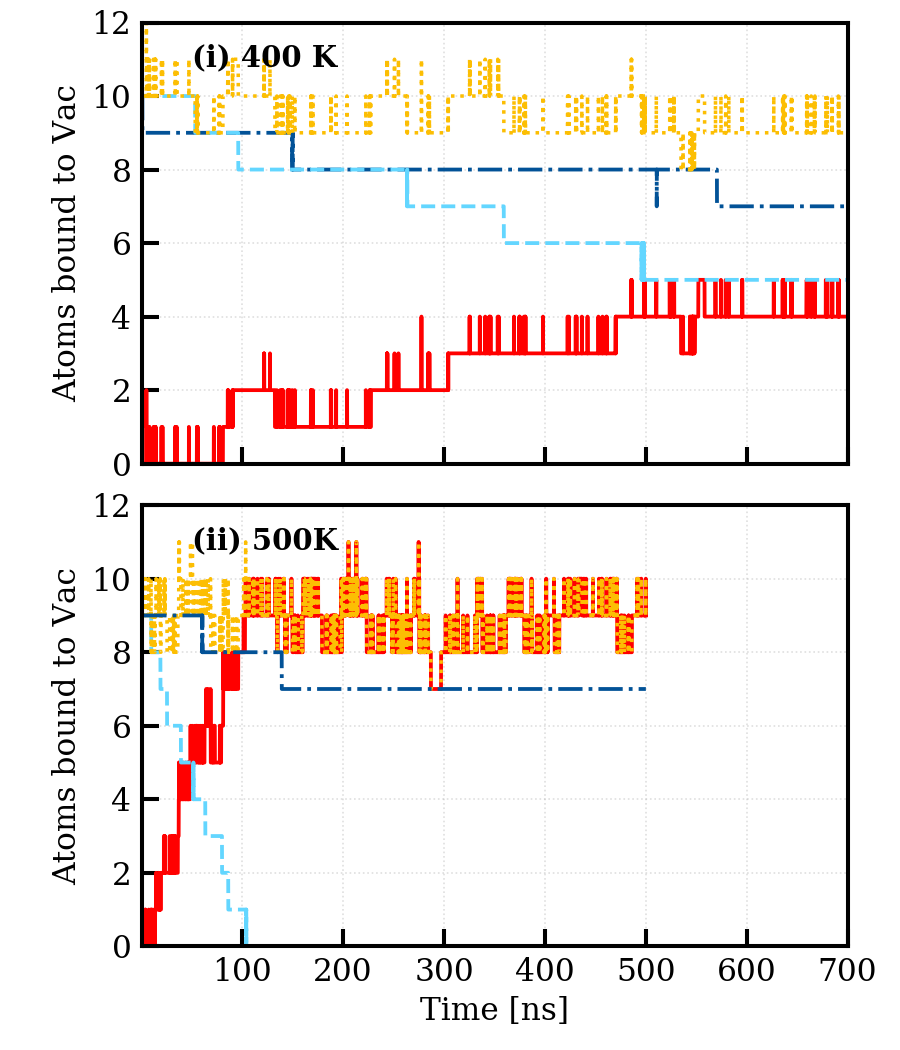
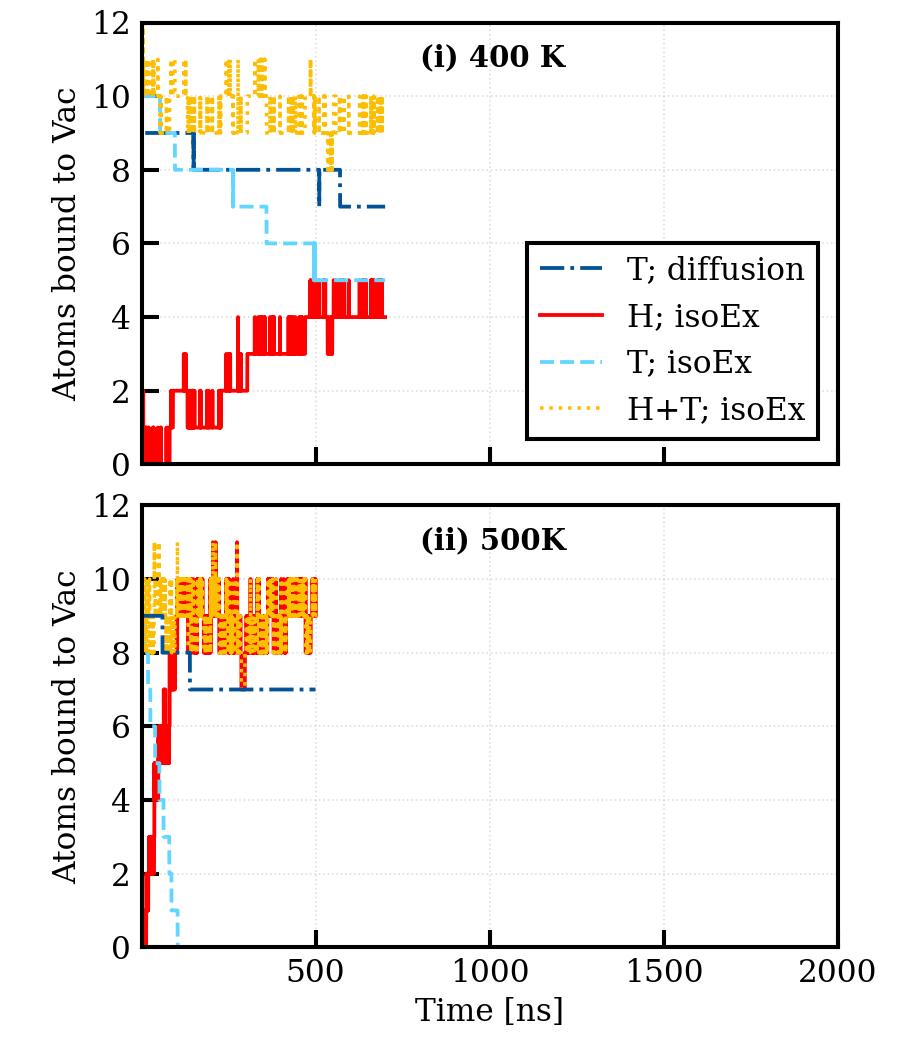
general fixes

diff --git a/3_Methods.tex b/3_Methods.tex
@@ -25,7 +25,7 @@ In order to avoid catastrophic errors in the conservation of energy, the time st
 In its purest form, MD requires us to perform $O(N^2)$ force evaluations, with $N$ being the number simulated of particles. 
 In a typical simulation, however, the particles only interact with a limited number of neighbours, and most long-range interactions can be safely disregarded. 
 A common way of doing this is by declaring a cutoff radius for the force calculations, with only particles within this radius from particle $i$ taken into account when evaluating $\mathbf{F}_i(\mathbf{r}_i,t)$. 
-The use of a force cutoff theoretically reduces the scaling of the algorithm down to $O(N)$. \cite{verlet1967computer}
+The use of a force cutoff theoretically reduces the scaling of the algorithm down to $O(N)$  \cite{verlet1967computer}.
 
 % [Periodic boundaries] 
 Despite the use of a force cutoff, most real-world materials are still far too large to be simulated accurately.
@@ -58,11 +58,11 @@ A common and relatively simple algorithm for this is the so called the \textit{B
 \frac{dT}{dt} = \frac{T_0-T}{\tau}
 \end{align}
 where $T_0$ is the target temperature and $\tau$ a time constant. 
-Despite its high efficiency, the Berendsen thermostat is not producing a fully correct canonical ensemble and is prone to causing various unphysical artefacts. \cite{berendsen1984molecular}
+Despite its high efficiency, the Berendsen thermostat is not producing a fully correct canonical ensemble and is prone to causing various unphysical artefacts \cite{berendsen1984molecular}.
 
 The \textit{Nos\'{e}-Hoover thermostat}, on the other hand, accurately samples the canonical ensamble. 
 Being a so-called \textit{extended system method}, the Nos\'{e}-Hoover thermostat makes use of a virtual particle reservoir, effectively acting as a heat bath. 
-Since this requires equations of motions to be evaluated both for the actual particles and the virtual reservoir, the gained physical accuracy comes at a higher computational cost. \cite{nose1984unified}
+Since this requires equations of motions to be evaluated both for the actual particles and the virtual reservoir, the gained physical accuracy comes at a higher computational cost \cite{nose1984unified}.
 
 % --------------- MD schematic ------------------------------------------------------------------------------------
 \begin{figure}
@@ -137,13 +137,13 @@ The atomic structure of metals allows them to be described particularly well usi
 \begin{align}
 V_{tot} = \sum_i^N F_i\, \bigg( \sum_j \rho\, (\mathbf{r}_{ij}) \bigg) + \frac{1}{2} \sum^N_{ij} V_2 (\mathbf{r}_{ij})
 \end{align}
-where  $F_i$ is a function of the summed electron density $\rho (\mathbf{r}_{ij})$ and $\mathbf{r}_{ij}$ denotes the distance $| \mathbf{r}_i - \mathbf{r}_j |$ between the $i$th and $j$th atoms. \cite{EAMmodel,dudarevEAMpotential}. 
+where  $F_i$ is a function of the summed electron density $\rho (\mathbf{r}_{ij})$ and $\mathbf{r}_{ij}$ denotes the distance $| \mathbf{r}_i - \mathbf{r}_j |$ between the $i$th and $j$th atoms \cite{EAMmodel,dudarevEAMpotential}. 
 
 For covalently bonded materials, it is often more accurate to use a \textit{Bond Order Potential} (BOP), generally presented as
 \begin{align}
 V_{ij}(r_{ij}) =bV_{ijk}V_{\rm attractive}(r_{ij}) V_ {\rm repulsive}
 \end{align}
-Examples of BOPs are potentials of Tersoff, Brenner and Finnis-Sinclair type. \cite{tersoff1988new, brenner1990empirical, finnis1984simple} Both BOP and EAM potentials have the functional shape of a typical pair-potential, but act as many-body potentials due to many-body interactions embedded into their pair-terms.
+Examples of BOPs are potentials of Tersoff, Brenner and Finnis-Sinclair type \cite{tersoff1988new, brenner1990empirical, finnis1984simple}. Both BOP and EAM potentials have the functional shape of a typical pair-potential, but act as many-body potentials due to many-body interactions embedded into their pair-terms.
 
 \section{Parallel Algorithms}
 Doubling the side length of a cubical atomic system increases the number of atoms by a factor of eight. 
@@ -153,14 +153,14 @@ Computationally, however, it is indeed expensive due to the increased number of 
 
 Interestingly, the nature of MD simulations makes them inherently parallel, allowing the forces for all atoms to be calculated simultaneously. 
 This fact can be exploited by dividing the computational load across multiple processing units. 
-Parallellisation on $P$ processors can be performed using three principal algorithms; \textit{atom-}, \textit{spatial-} and \textit{force-decompositon}. 
-\cite{fincham1987parallel}
+Parallellisation on $P$ processors can be performed using three principal algorithms; \textit{atom-}, \textit{spatial-} and \textit{force-decomposition} 
+\cite{fincham1987parallel}.
 
 The atom-decompositon algorithm includes appointing $N/P$ atoms to each processor and requires \textit{all-to-all} communication of forces between processors and therefore it scales as $O(N)$, independently of $P$. 
 The force-decomposition algorithm, on the other hand, divides the cell into three-dimensional boxes, with atoms being re-appointed to the corresponding processor each time they enter a new box. 
 This method limits the communication required to only neighbouring processors, giving a theoretical scaling of $O(N/P)$ for largely parallel simulations.
 The spatial-decomposition algorithm, finally, involves appointing force calculation loops to separate processors.
-This method is fairly non-trivial to grasp and achieves at best a scaling of $O(N/\sqrt{P})$, still lagging behind the spatial-decomposition algorithm in performance. \cite{fincham1987parallel,lammpsMD}
+This method is fairly non-trivial to grasp and achieves at best a scaling of $O(N/\sqrt{P})$, still lagging behind the spatial-decomposition algorithm in performance \cite{fincham1987parallel,lammpsMD}.
 
 % ---------------------------------------------------------------------------------------------------
 % \section{Analysis of the Results}

diff --git a/2_Theory.tex b/2_Theory.tex
@@ -71,7 +71,7 @@ The armour material of choice for the ITER divertor is tungsten (W) \cite{PITTS2
 The metal, named after the Swedish word for "heavy stone", is recognized for having the highest melting point of all metals (3695 K) and a hardness superior to that of most steels. 
 It also has a thermal conductivity of 173 W/(m·K), equaling around twice that of iron and half that of copper. 
 In its structurally most stable form, W has a body-centered-cubic (BCC) crystal structure, with a lattice constant of 3.165 \AA.
-Due to its small atoms size, hydrogen has been long known to be soluble to at least some degree in most transition metals, including tungsten \cite{smith1934occlusion, frauenfelder1969solution}.
+Due to its small atomic size, hydrogen is soluble to at least some degree in most transition metals, including tungsten \cite{smith1934occlusion, frauenfelder1969solution}.
 The equilibrium position for hydrogen in a perfect W lattice is at the tetrahedral interstitial position (TIS), shown as black dots in Fig. \ref{Fig:bcc}. 
 
 At temperatures $T > 0$ K, any real crystalline materials will contain some amount of crystallographic defects, the most common which are visualized in Fig. \ref{Fig:defect_types}. 
@@ -101,7 +101,7 @@ E.g. in the case of a vacancy, the empty lattice site leaves neighbouring W atom
 The isotopes of a chemical element are essentially variations of the same element, differing in the number of neutrons and thus also atomic mass. 
 Since all isotopes of a specific element share the same number of protons and electrons, they can be considered chemically indistinguishable. 
 The difference in atomic mass can, nonetheless, present itself as a change in the reaction rates of chemical and thermodynamic processes when an atom is replaced by its isotope. 
-Known as the \textit{kinetic isotope effect}, this involves lighter isotopes generally reacting faster than their heavier counterparts. \cite{atkins2006atkins}
+Known as the \textit{kinetic isotope effect}, this involves lighter isotopes generally reacting faster than their heavier counterparts \cite{atkins2006atkins}.
 
 In the case of hydrogen, there are three naturally occurring isotopes, protium (H), deuterium (D) and tritium (T). 
 In contrast to the vast majority of elements, the relative differences in mass between these three isotopes are notably extreme; D ($m_{\text{D}}=2.014102$ u) and T ($m_{\text{T}}=3.016049$ u) have masses of just over two and three times that of H ($m_{\text{H}}=1.007825$ u). 
@@ -109,7 +109,7 @@ These mass differences result in, e.g. the isotopes having noticeably different 
 
 Out of these three isotopes, tritium is the by far scarcest. 
 Having a half-life of only 12.3 years, it is formed only in miniscule amounts in the atmosphere through interactions with cosmic rays.
-In fusion reactors, where tritium will be present in relative abundance, the trapping of this radioactive substance into wall materials can over time become a safety issue; although tritium is a low-energy beta emitter and thus not externally harmful to humans, it is easily inhaled, ingested or absorbed through the skin, potentialy causing radiation damage to internal organs and tissues. \cite{tritiumHealth}
+In fusion reactors, where tritium will be present in relative abundance, the trapping of this radioactive substance into wall materials can over time become a safety issue; although tritium is a low-energy beta emitter and thus not externally harmful to humans, it is easily inhaled, ingested or absorbed through the skin, potentialy causing radiation damage to internal organs and tissues \cite{tritiumHealth}.
 In addition to the safety concern associated with handling and maintaining tritium infused components, there is also an obvious fuel economical incentive of retrieving the embedded tritium.
 
 The proposed methods of detrapping and extracting hydrogen isotopes from materials typically focus on annealing, i.e. heating and slowly cooling a material, to facilitate the detrapping and diffusion of hydrogen atoms. 
@@ -132,7 +132,7 @@ When a hydrogen atom gets detrapped and diffuses far enough from its original po
 As the defect empties this way, it grows increasingly difficult and therefore unlikely for the remaining hydrogen atoms to overcome the $E_{\text{bind}}$ barrier.
 In other words, the removal of T from a material slows over time, unless more heat is gradually applied.
 
-Annealing performed under a H$_2$ atmosphere or alternatively under a bombardment of H plasma has, however, been experimentally shown to reduce annealing time or alternatively enable the annealing to be performed at lower temperatures.  \cite{alimov2011hydrogen, roth2013hydrogen, barton2014deuterium, ahlgren2019hydrogen}
+Annealing performed under a H$_2$ atmosphere or alternatively under a bombardment of H plasma has, however, been experimentally shown to reduce annealing time or alternatively enable the annealing to be performed at lower temperatures \cite{alimov2011hydrogen, roth2013hydrogen, barton2014deuterium, ahlgren2019hydrogen}.
 The mechanism at play here supposedly works by keeping the number of hydrogen atoms bound to a defect constant.  
 As a tritium atom now leaves the defect, its place is soon taken by a close-by protium atom, resulting in the low-$E_{\text{bind}}$ states being kept occupied even as the T-removal progresses.
 Since hydrogen atoms are assumed to move around somewhat in the defect, the low-$E_{\text{bind}}$ states are shared between the new H atoms and the T atoms remaining in the defect.

diff --git a/5_Results.tex b/5_Results.tex
@@ -7,9 +7,11 @@
 % ----------------------------------------------------------------------------------
 In Fig. \ref{Fig:1Vac_results} and \ref{Fig:2Vac_results} we can see the number of T and H atoms bound to the mono- and divacancies as a function of time and at different temperatures. 
 For comparison, the results of the monoisotopic, 'vacuum annealing', simulations are also shown. 
-We can see that at all three temperatures, tritium-removal occurs at a higher rate when isotope exchange is involved.
+We can see that at all three temperatures, tritium-removal occurs at a higher rate when isotope exchange is involved, compared to the monoisotopic cases.
 While the difference is more prominent at lower temperatures, it is noticeable also at 500 K, where removal through pure diffusion starts to play a significant role.
 Despite us aiming mainly for qualitative results, a semi-quantitative comparison reveals the T-removal rate to be around 50 times higher when employing isotope exchange compared to monoisotopic simulations at 500 K. 
+
+For the divacancies, in Fig. \ref{Fig:2Vac_results}, the T-removal using isotope exchange in the occurs about as quickly as in the monovacancy case, despite starting with nearly twice the amount T. 
 
 \begin{figure}[!ht]
 \begin{subfigure}{.5\textwidth}
@@ -24,7 +26,7 @@ Despite us aiming mainly for qualitative results, a semi-quantitative comparison
   \caption{Linear time scale}
   %\label{fig:sub-second}
 \end{subfigure}
-\caption{Number of H and T atoms bound to the monovacancy for isotope exchange and monoisotopic diffusion simulations}
+\caption{Number of H and T atoms bound to the monovacancy for isotope exchange and monoisotopic diffusion simulations. The number of trapped T in the monovacancy decreases much faster in the simulations with isotope exchange, compared to the monoisotopic cases.}
  \label{Fig:1Vac_results} 
 \end{figure}
 
@@ -42,7 +44,7 @@ Despite us aiming mainly for qualitative results, a semi-quantitative comparison
   \caption{Linear time scale}
   %\label{fig:sub-second}
 \end{subfigure}
-   \caption{Number of H and T atoms bound to the divacancy for isotope exchange and monoisotopic diffusion simulations}
+   \caption{Number of H and T atoms bound to the divacancy for isotope exchange and monoisotopic diffusion simulations. Despite the nearly doubled number of T, the removal with isotope exchange occurs at a similar rate than in the monovacancy simulations.}
    \label{Fig:2Vac_results} 
 \end{figure}
 
@@ -54,22 +56,19 @@ This seemingly irrelevant fact shows on an atomic level what has been hypothesis
 We can also see from both Fig. \ref{Fig:1Vac_results} and \ref{Fig:2Vac_results} that the combined number of T and H in the defects is kept roughly constant during the entirety of the simulations, with H atoms rapidly taking the place of detrapped T.
 
 \begin{figure}[!ht]
-\begin{subfigure}{.48\textwidth}
 	\center
-	\includegraphics[width=1.1\linewidth]{Ebind.png}
-	\caption{\footnotesize{Comparision of the H-W binding energy in MD using the EAM1 potential by Bonny \textit{et. al} and DFT results by Heinola \textit{et. al. }\cite{heinolaTungstenDFT}}}
+	\includegraphics[width=0.55\linewidth]{Ebind.png}
+	\caption{Comparision of the H-W binding energy in MD using the EAM1 potential by Bonny \textit{et. al} and DFT results by Heinola \textit{et. al. }\cite{heinolaTungstenDFT}}
 	\label{Fig:Ebind1H_DFT}
-\end{subfigure}
-\hspace{3mm}
-\begin{subfigure}{.48\textwidth}
-	\center
-	\includegraphics[width=1.1\linewidth]{epot.png}
-	\caption{\footnotesize{The potential energies of all individual T atoms in a 500 K simulation.\vspace*{6mm}}}
-	\label{Fig:Epot}
-  %\label{fig:sub-second}
-\end{subfigure}
 \end{figure}
 
+\begin{figure}[!ht]
+	\center
+	\includegraphics[width=0.55\linewidth]{epot.png}
+	\caption{The potential energies of all individual T atoms in a 500 K simulation.\vspace*{6mm}}
+	\label{Fig:Epot}
+  %\label{fig:sub-second}
+\end{figure}
 
 % ----------------------------------------------------------------------------------
 \section{Dislocations}

diff --git a/4_Simulations.tex b/4_Simulations.tex
@@ -44,7 +44,7 @@ Depending on the geometry of the defect, this parameter had a value of 14...40 \
 As we intend to verify that isotope exchange indeed results in more effective tritium removal than conventional methods, setups for comparison simulations were constructed by omitting the added H and only simulating the spontaneous diffusion of T away from the defect. 
 These monoisotopic systems should approximately emulate vacuum annealing conditions.
 
-Finally, all sets of isotope exchange and monoisotope simulations were run at both 400 and 500 K, to qualitatively study the temperature dependance of the phenomenon.  
+Finally, all sets of isotope exchange and monoisotope simulations were run at both 400 and 500 K, to qualitatively study the temperature dependence of the phenomenon.  
 
 
 % --------------- IsoEx MD ------------------------------------------------------------------------------------
@@ -101,7 +101,7 @@ cloud/.style = {draw, ellipse,fill=red!20, node distance=3cm,
 For the vacancy simulations, a monovacancy was created by removing the middlemost atom of a $10\times 10 \times 10$ unit cell (2000 atom) W lattice.  
 In contrast to the larger systems, where the defect was saturated using random diffusion, the small size of the point defect enabled us to manually place T at their natural lowest energy positions.
 These positions coincide with the octahedral interstitial sites, forming a square bipyramid around the vacancy \cite{heinolaTungstenDFT}.
-A total of 19 H atoms were then deposited to randomly chosen tetragonal interstitial sites around the simulation W lattice, as seen in Fig. \ref{Fig:monovac_system}, bringing the (H+T)/W ratio to 0.0125. 
+A total of 19 H atoms were then deposited to randomly chosen tetrahedral interstitial sites around the simulation W lattice, as seen in Fig. \ref{Fig:monovac_system}, bringing the (H+T)/W ratio to 0.0125. 
 
 A divacancy system was constructed in a similar fashion by removing two neighbouring W atoms and adding a total of 10 T atoms to the defect.
 The (H+T)/W ratio in these simulations was 0.0150.

diff --git a/plotting-scripts/plot_2Vac_isoEx_comp.py b/plotting-scripts/plot_2Vac_isoEx_comp.py
@@ -31,7 +31,7 @@ print('Drawing figures ...')
 fsize = [6.0, 7.0]
 
 # Upper x-axis limit [ns]
-xulim = 700.0
+xulim = 2000.0
 
 # axis labels
 ylbl = 'Atoms bound to Vac'
@@ -54,7 +54,9 @@ plotter(tTH_isoEx_400K[init:final:step, 0], tTH_isoEx_400K[init:final:step,1]+tT
 plt.xlim((1, xulim))
 plt.ylim((0,12))
 plt.ylabel(ylbl)
-plt.text(50, 10.8, '(i) 400 K', font)
+plt.text(800, 10.8, '(i) 400 K', font)
+leg = plt.legend(loc='lower right', bbox_to_anchor=(0.99, 0.03))
+leg.get_frame().set_linewidth(1.5*pltm)  # Legend bow linewidth
 plt.gca().axes.get_xaxis().set_ticklabels([]) # Hide x-axis tick labels
 
 # 500 K
@@ -67,7 +69,7 @@ plt.xlim((1, xulim))
 plt.ylim((0,12))
 plt.xlabel(xlbl)
 plt.ylabel(ylbl)
-plt.text(50, 10.8, '(ii) 500K', font)
+plt.text(800, 10.8, '(ii) 500K', font)
 
 
 # Show & save figure
@@ -93,8 +95,6 @@ plt.xlim((1, xulim))
 plt.ylim((0,12))
 plt.ylabel(ylbl)
 plt.text(2, 10.8, '(i) 400 K', font)
-leg = plt.legend(loc='center left', bbox_to_anchor=(0.03, 0.42))
-leg.get_frame().set_linewidth(1.5*pltm)  # Legend bow linewidth
 plt.gca().axes.get_xaxis().set_ticklabels([]) # Hide x-axis tick labels
 
 # 500 K
